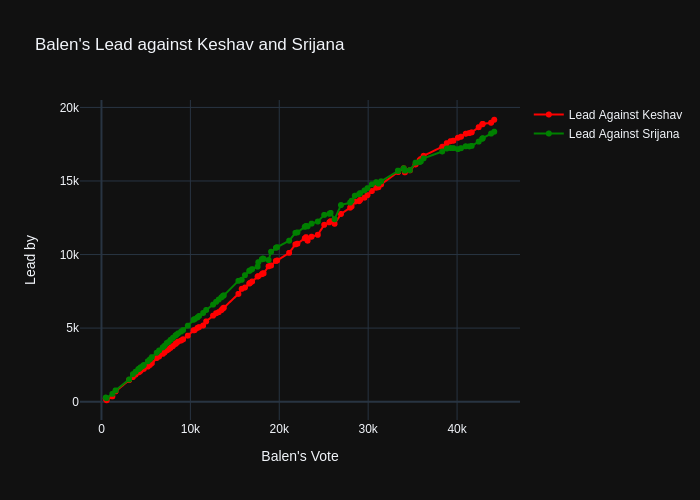
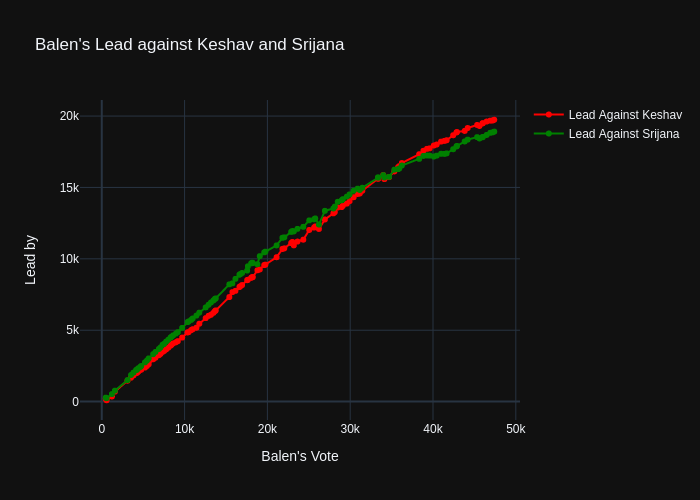
add data

diff --git a/README.md b/README.md
@@ -1,4 +1,4 @@
-## Last Update: 5/23/2022 7:45
+## Last Update: 5/23/2022 18:21
 
 ## Balen's Lead against Keshav Sthapit and Srijana Singh
 ![ScreenShot](final.jpg)
